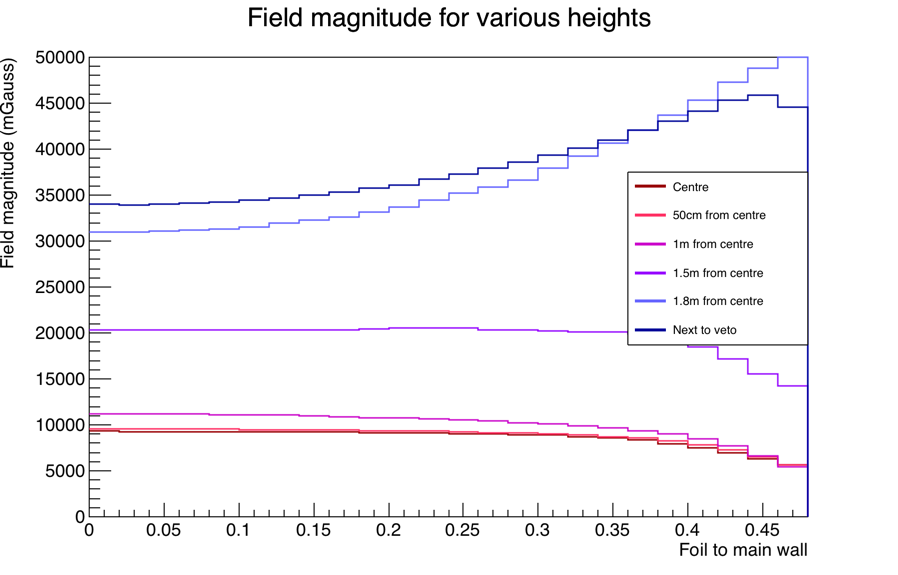
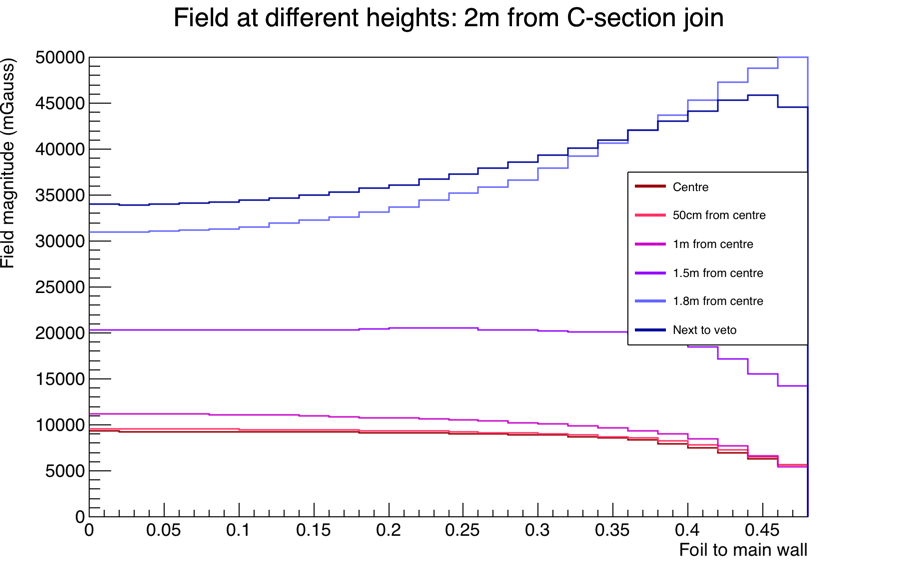
adjust for x wall pos

Changed region(s): [[0.1871, 0.0, 0.8107, 0.0591]]

diff --git a/parseFieldMap.cpp b/parseFieldMap.cpp
@@ -98,6 +98,7 @@ void parseFieldMap()
       }
     }
     MakePlotSet(totalfield,1,"C-section join");
+    MakePlotSet(totalfield,50,"1m from C-section join");
     MakePlotSet(totalfield,100,"2m from C-section join");
     MakePlotSet(totalfield,130,"Near Xwall");
     
@@ -172,7 +173,7 @@ void MakePlotSet(TH3D *totalfield, int ybin, string text)
 //  yveto->Draw();
 //  c->SaveAs((text+"_offset_veto.png").c_str());
   
-  y0->SetTitle("Field magnitude for various heights");
+  y0->SetTitle(("Field at different heights: "+text).c_str());
   y0->Draw();
   y50->Draw("SAME");
   y1->Draw("SAME");
